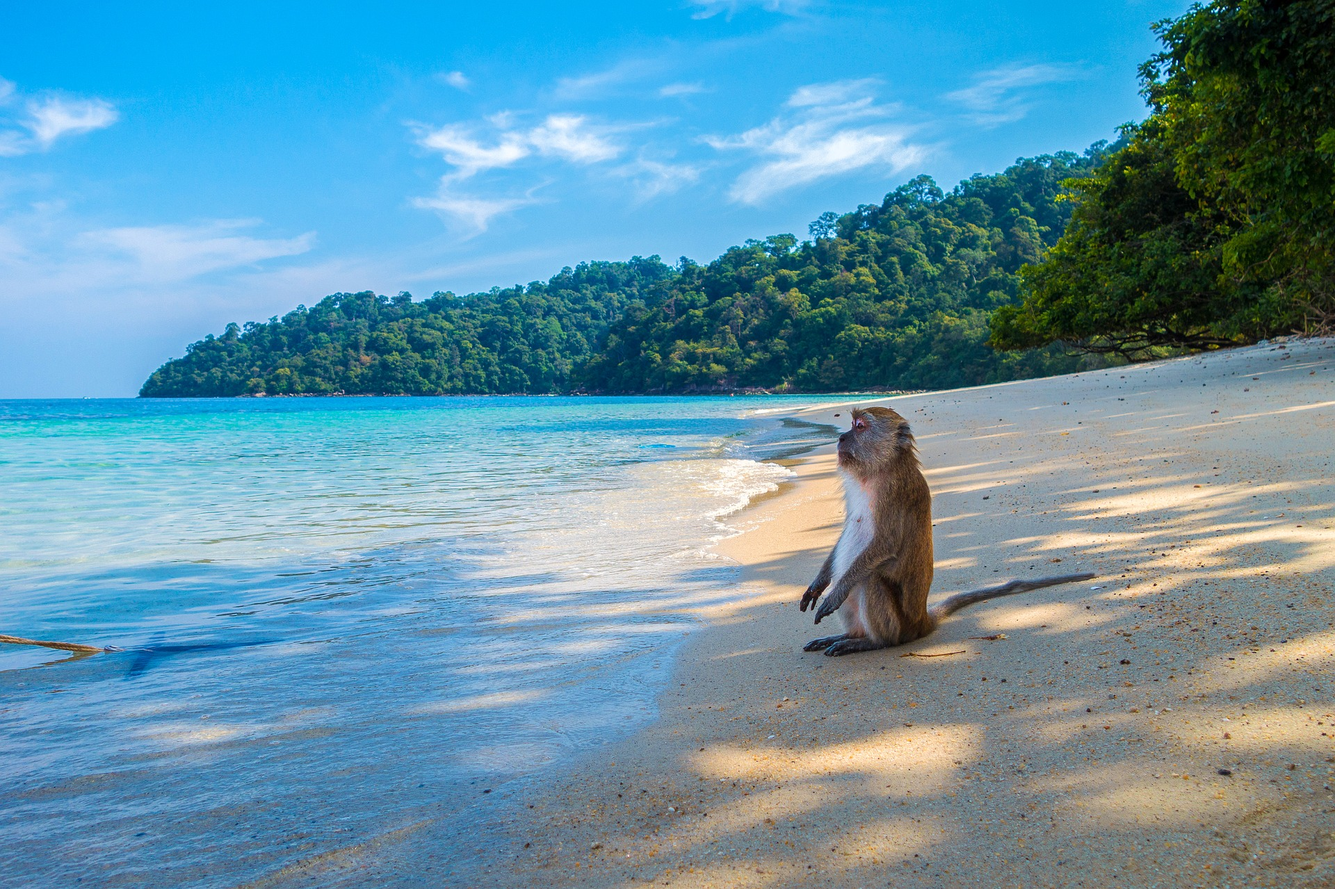
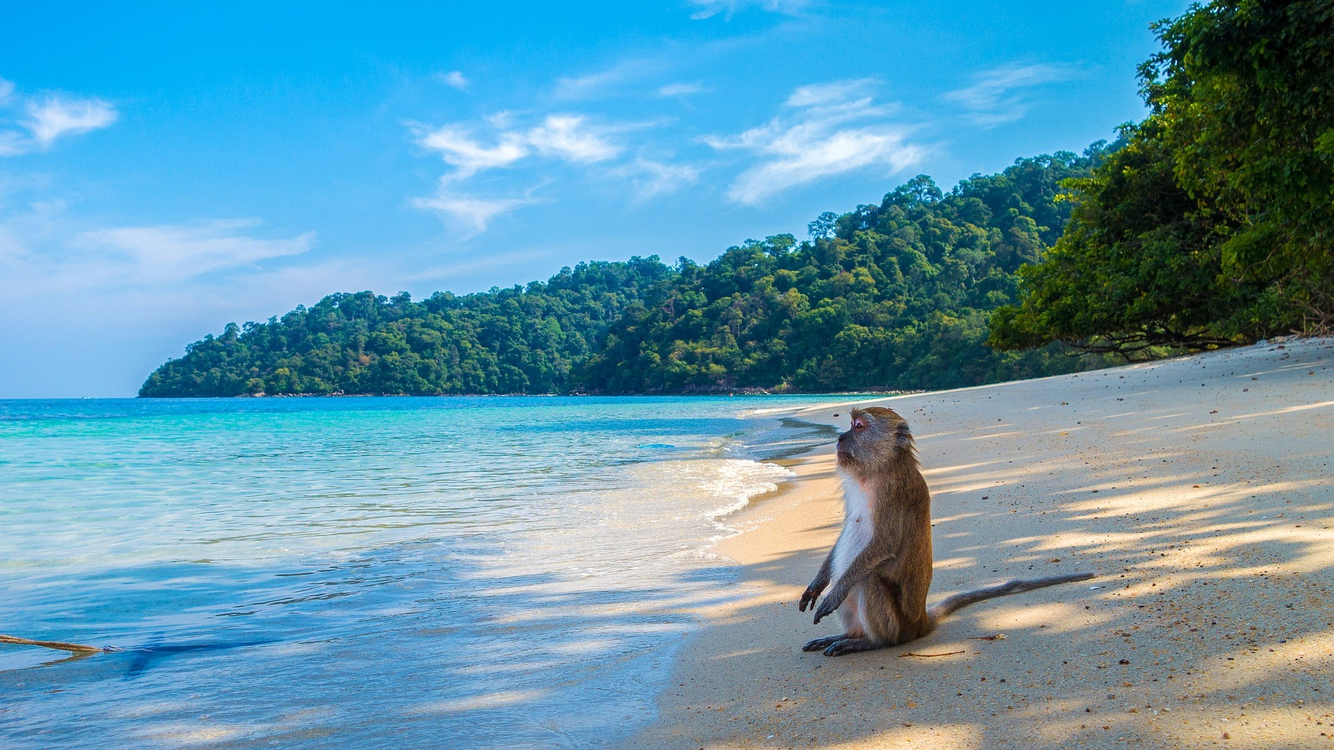
Added contact page

diff --git a/src/components/Container.js b/src/components/Container.js
@@ -3,7 +3,7 @@ import {useInView} from 'react-intersection-observer'
 import './styles/Container.css'
 
 function Container({children, assets, getOpacity}){
-  const [size, setSize] = useState(window.innerWidth/window.innerWidth * 105)
+  const [size, setSize] = useState(window.innerHeight/window.innerHeight * 130)
   const [opacity, setOpacity] = useState(0)
   const [ref, inView, entry] = useInView({
     threshold:0.5
@@ -17,7 +17,7 @@ function Container({children, assets, getOpacity}){
         let inViewLength = window.pageYOffset - startPos
         setSize(() => {
           // window.alert(window.outerHeight)
-          return window.innerWidth/window.innerWidth * 105 + (inViewLength/(window.innerWidth/8))
+          return window.innerHeight/window.innerHeight * 130 + (inViewLength/(window.innerHeight/8))
         })
       }
     }
@@ -51,7 +51,7 @@ function Container({children, assets, getOpacity}){
       style={{
         backgroundImage:`url(${assets.background})`,
         backgroundPosition:`${assets.backgroundY} ${assets.backgroundX}`,
-        backgroundSize:`${size}% auto`
+        backgroundSize:`auto ${size}%`
         }}>
       {childrenWithData}
     </section>

diff --git a/src/pages/contact.js b/src/pages/contact.js
@@ -1,0 +1,29 @@
+import React from 'react'
+import Container from '../components/Container'
+import Content from '../components/Content'
+import Header from '../components/Header'
+import Layout from '../layouts/layout'
+import Form from '../components/Form'
+import winter from '../images/winter.jpg'
+
+function Contact(){
+  return(
+    <Layout>
+      <Container assets={{
+        background:winter,
+        backgroundX:'center',
+        backgroundY:'center'
+      }}
+      >
+        <Content>
+          <Header>
+            Contact Us
+          </Header>
+          <Form/>
+        </Content>
+      </Container>
+    </Layout>
+  )
+}
+
+export default Contact

diff --git a/src/components/styles/Form.css b/src/components/styles/Form.css
@@ -1,0 +1,37 @@
+.form{
+  width:28vw;
+  display:flex;
+  flex-direction: column;
+  background-color:rgba(112,112,112, 0.86);
+  padding: 38px;
+  font-size:20px;
+}
+
+.form input{
+  margin-bottom:15px;
+  background:transparent;
+  color:white;
+  border:2px solid white;
+  padding:5px;
+  outline:none;
+}
+
+.form textarea{
+  margin-bottom:15px;
+  background:transparent;
+  color:white;
+  border:2px solid white;
+  padding:5px;
+  min-height:175px;
+  outline:none;
+  resize:vertical;
+}
+
+.form ::placeholder{
+  color:white;
+}
+
+.form .button{
+  display:flex;
+  justify-content: flex-end;
+}

diff --git a/src/pages/index.js b/src/pages/index.js
@@ -6,7 +6,7 @@ import Header from '../components/Header'
 import Button from '../components/Button'
 import Description from '../components/Description'
 import norway from '../images/norway.jpg'
-import night from '../images/night.jpg'
+import sunset from '../images/sunset.jpg'
 
 const Index = () =>{
   return (
@@ -31,7 +31,7 @@ const Index = () =>{
         </Container>
         <Container 
           assets={{
-            background:night, 
+            background:sunset, 
             backgroundX:'center', 
             backgroundY:'center'}}
         >

diff --git a/src/components/Form.js b/src/components/Form.js
@@ -1,0 +1,18 @@
+import React from 'react'
+import Button from '../components/Button'
+import '../components/styles/Form.css'
+
+const Form = () => {
+  return(
+    <form className='form'>
+      <input type='text' placeholder='Name' name='name'/>
+      <input type='email' placeholder='Email' name='email'/>
+      <textarea placeholder='Message' name='message'></textarea>
+      <Button>
+        Submit
+      </Button>
+    </form>
+  )
+}
+
+export default Form

diff --git a/src/components/styles/Container.css b/src/components/styles/Container.css
@@ -6,5 +6,5 @@
   box-sizing: border-box;
   padding:0px 15.625vw;
   position:relative;
-  transition:0.1s;
+  transition:0.2s;
 }
